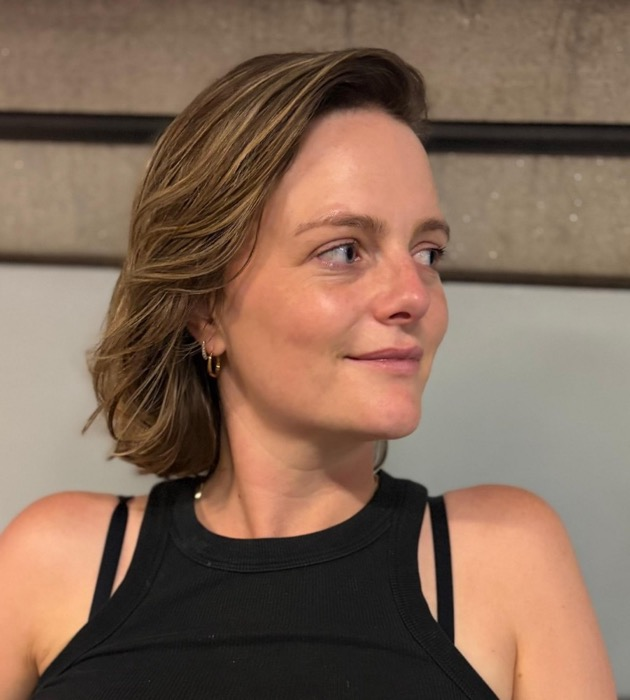
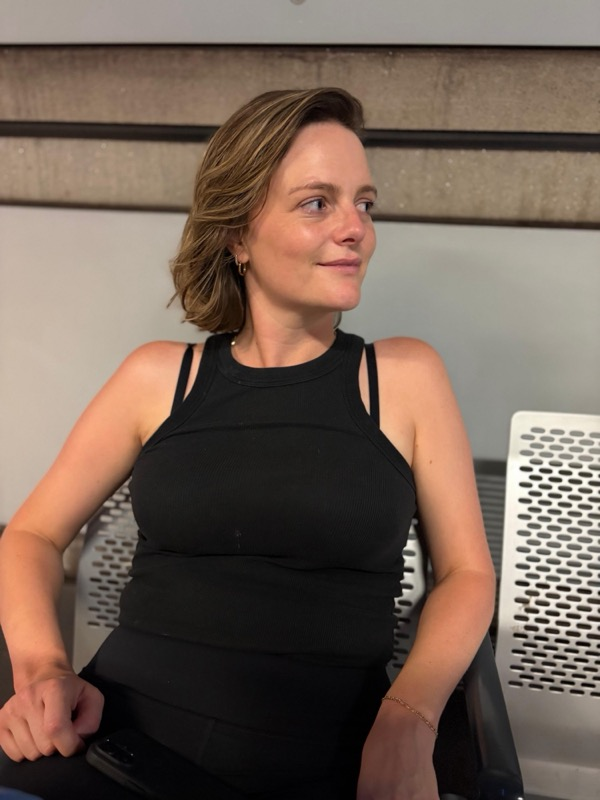
Show the full photo and shorten the LinkedIn link

diff --git a/index.html b/index.html
@@ -172,7 +172,7 @@
     background: none; border: 0; box-shadow: none; backdrop-filter: none; -webkit-backdrop-filter: none;
   }
   @media (max-width: 759px) { .card.card-me { background: none; } }
-  .me-photo { flex: none; width: 72px; height: 72px; object-fit: cover; object-position: 50% 35%; border-radius: 50%; display: block; }
+  .me-photo { flex: none; width: 120px; aspect-ratio: 3 / 4; height: auto; object-fit: cover; object-position: 50% 30%; border-radius: 12px; display: block; }
   .me-copy { display: flex; flex-direction: column; gap: .35em; }
   .me-link { color: var(--ink-strong); font-weight: 500; text-decoration: underline; text-underline-offset: 3px; }
   .me-link:focus-visible { outline: 2px solid var(--ink); outline-offset: 2px; border-radius: 2px; }
@@ -375,7 +375,7 @@
         <h2 class="me-name" id="me-h">Hi, I'm Frances.</h2>
         <p>Co-founder of The Dx, where we build voice agents for the long tail of customer accounts.</p>
         <p>New(ish) mum. Born in Auckland, New Zealand, and currently in London.</p>
-        <p><a class="me-link" href="https://www.linkedin.com/in/frances-mannion-660b9b106/" target="_blank" rel="noopener">Say hi on LinkedIn<span class="sr-only"> (opens in a new tab)</span></a></p>
+        <p><a class="me-link" href="https://www.linkedin.com/in/frances-mannion-660b9b106/" target="_blank" rel="noopener">LinkedIn<span class="sr-only"> (opens in a new tab)</span></a></p>
       </div>
     </div>
   </div>
